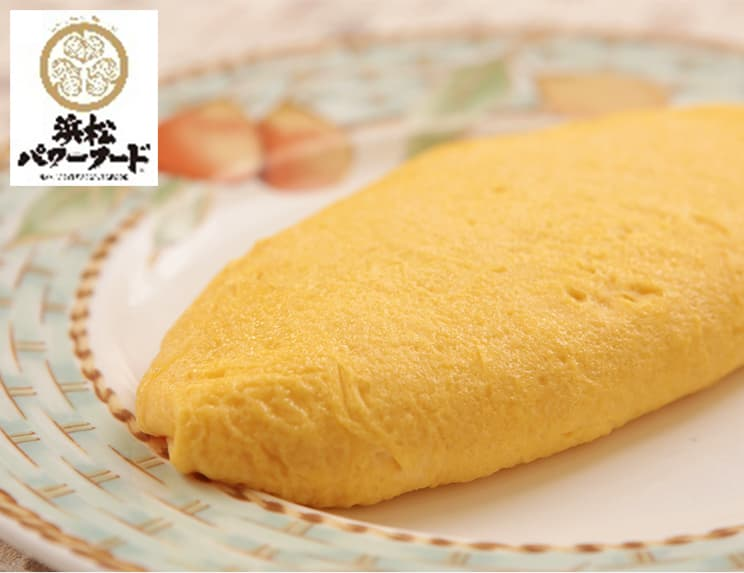
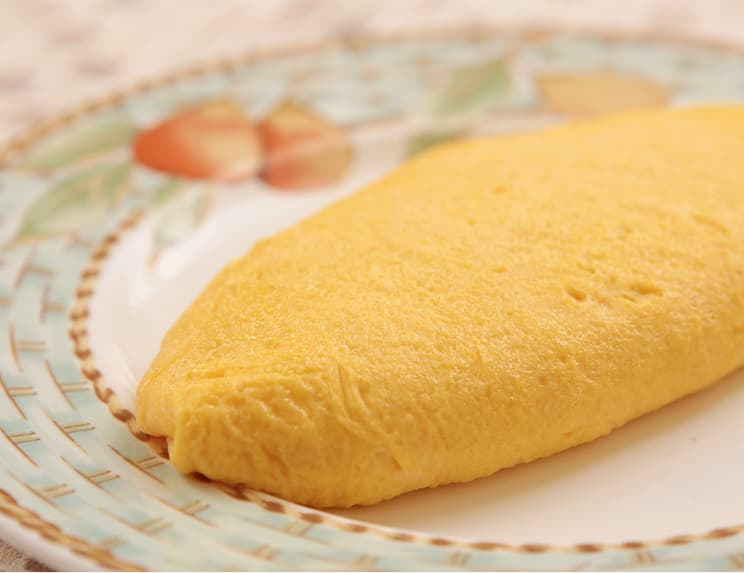
update images and text content

Changed region(s): [[0.0, 0.0, 0.2164, 0.3264]]

diff --git a/css/breakfast.css b/css/breakfast.css
@@ -325,8 +325,19 @@
   margin-left: 2%;
 }
 
+.breakfast-content .sect-3 .menu-wrapper .menu-item .menu-img {
+  position: relative;
+}
+
 .breakfast-content .sect-3 .menu-wrapper .menu-item .menu-img img {
   width: 100%;
+}
+
+.breakfast-content .sect-3 .menu-wrapper .menu-item .menu-img .power-logo {
+  width: 74px;
+  position: absolute;
+  top: 5px;
+  left: 5px;
 }
 
 .breakfast-content .sect-3 .menu-wrapper .menu-item .menu-content {
@@ -414,10 +425,18 @@
 
 .breakfast-content .sect-4 .cook .cook-item .img-wrap {
   margin: 0 0 15px;
+  position: relative;
 }
 
 .breakfast-content .sect-4 .cook .cook-item .img-wrap img {
   width: 100%;
+}
+
+.breakfast-content .sect-4 .cook .cook-item .img-wrap .power-logo {
+  width: 74px;
+  position: absolute;
+  top: 5px;
+  left: 5px;
 }
 
 .breakfast-content .sect-4 .cook .cook-item .date {

diff --git a/css/breakfast-sp.css b/css/breakfast-sp.css
@@ -308,8 +308,19 @@
   display: block;
 }
 
+.breakfast-content .sect-3 .menu-wrapper .menu-item .menu-img {
+  position: relative;
+}
+
 .breakfast-content .sect-3 .menu-wrapper .menu-item .menu-img img {
   width: 100%;
+}
+
+.breakfast-content .sect-3 .menu-wrapper .menu-item .menu-img .power-logo {
+  width: 37px;
+  position: absolute;
+  top: 5px;
+  left: 5px;
 }
 
 .breakfast-content .sect-3 .menu-wrapper .menu-item .menu-content {
@@ -455,10 +466,18 @@
 
 .breakfast-content .sect-4 .cook .cook-item .img-wrap {
   margin: 0 0 11px;
+  position: relative;
 }
 
 .breakfast-content .sect-4 .cook .cook-item .img-wrap img {
   width: 100%;
+}
+
+.breakfast-content .sect-4 .cook .cook-item .img-wrap .power-logo {
+  width: 37px;
+  position: absolute;
+  top: 5px;
+  left: 5px;
 }
 
 .breakfast-content .sect-4 .cook .cook-item .date {

diff --git a/scss/breakfast.scss b/scss/breakfast.scss
@@ -260,8 +260,15 @@
 					margin-left: 2%;
 				}
 				.menu-img{
+					position: relative;
 					img{
 						width: 100%;
+					}
+					.power-logo{
+						width: 74px;
+						position: absolute;
+						top: 5px;
+						left: 5px;
 					}
 				}
 				.menu-content{
@@ -331,8 +338,15 @@
 				text-align: center;
 				.img-wrap{
 					margin: 0 0 15px;
+					position: relative;
 					img{
 						width: 100%;
+					}
+					.power-logo{
+						width: 74px;
+						position: absolute;
+						top: 5px;
+						left: 5px;
 					}
 				}
 				.date{

diff --git a/scss/breakfast-sp.scss b/scss/breakfast-sp.scss
@@ -250,8 +250,15 @@
 					display: block;
 				}
 				.menu-img{
+					position: relative;
 					img{
 						width: 100%;
+					}
+					.power-logo{
+						width: 37px;
+						position: absolute;
+						top: 5px;
+						left: 5px;
 					}
 				}
 				.menu-content{
@@ -368,8 +375,15 @@
 				text-align: center;
 				.img-wrap{
 					margin: 0 0 11px;
+					position: relative;
 					img{
 						width: 100%;
+					}
+					.power-logo{
+						width: 37px;
+						position: absolute;
+						top: 5px;
+						left: 5px;
 					}
 				}
 				.date{

diff --git a/breakfast/index.php b/breakfast/index.php
@@ -96,7 +96,7 @@
 									<div class="img-wrap">
 										<img src="/images/breakfast/chef-img-1.jpg" alt="鈴木 康生">
 									</div>
-									<p class="sawa">和食の神髄は出汁（だし）。職人の仕事は、朝一番に出汁を取ることから始まります。その出汁の旨味を存分にお楽しみいただける味噌汁をはじめ、料理人手作りのお惣菜をご用意しております。</p>
+									<p class="sawa">和食の神髄は出汁（だし）。鰹節と昆布から丁寧に出汁を取ることにこだわっています。その出汁の旨味を存分に味わっていただける味噌汁をはじめ、料理人手作りのお惣菜をお楽しみください。</p>
 								</div>
 								<div class="chef-item">
 									<h3 class="sawa">
@@ -140,12 +140,13 @@
                                     <div class="menu-content"> 
                                         <span class="sawa">-和食職人の逸品- </span>
                                         <h3 class="sawa">出汁（だし）香る味噌汁</h3>
-                                        <p>和食の料理人が丁寧に鰹節から出汁（だし）をとり、味わい深く仕上げたお味噌 汁です。</p>
+                                        <p>和食の料理人が丁寧に鰹節から出汁（だし）をとり、味わい深く仕上げたお味噌汁です。</p>
                                     </div>
 								</div>
 								<div class="menu-item">
                                     <div class="menu-img">
                                         <img src="/images/breakfast/menu04.jpg" alt="浜松パワーフードソーセージ">
+                                        <img src="/images/breakfast/power-logo.jpg" class="power-logo" alt="">
                                     </div>
                                     <div class="menu-content">
                                         <span class="sawa">-地元浜松産食材-</span>
@@ -176,11 +177,12 @@
 								<div class="menu-item">
                                     <div class="menu-img">
                                         <img src="/images/breakfast/menu07.jpg" alt="うなぎいもプリン ">
+                                        <img src="/images/breakfast/power-logo.jpg" class="power-logo" alt="">
                                     </div>
                                     <div class="menu-content">
                                         <span class="sawa">-パティシエ特製デザート-</span>
                                         <h3 class="sawa">うなぎいもプリン</h3>
-                                        <p>鰻を飼料に育てたサツマイモ「うなぎいも」を使ったプリンです。滑らかな味わいをお楽しみください。</p>
+                                        <p>鰻を肥料に育てたサツマイモ「うなぎいも」を使ったプリンです。滑らかな味わいをお楽しみください。</p>
                                     </div>
 								</div>
 								<div class="menu-item">
@@ -208,6 +210,7 @@
                                 <div class="cook-item">
                                     <div class="img-wrap">
                                         <img src="/images/breakfast/cook02.jpg" alt="三ケ日みかん風味の長坂養蜂場のはちみつゼリー ">
+                                        <img src="/images/breakfast/power-logo.jpg" class="power-logo" alt="">
                                     </div>
                                     <p class="date sawa">〈2022年3月〉</p>
                                     <span class="sawa">-パティシエ　柴田-</span>
@@ -217,6 +220,7 @@
                                 <div class="cook-item">
                                     <div class="img-wrap">
                                         <img src="/images/breakfast/cook03.jpg" alt="三方原大根と遠州灘産しらすの柚子風味和え">
+                                        <img src="/images/breakfast/power-logo.jpg" class="power-logo" alt="">
                                     </div>
                                     <p class="date sawa">〈2022年3月〉</p>
                                     <span class="sawa">-和食料理人　三浦-</span>
@@ -290,7 +294,7 @@
                                                     <p class="sawa">・漬物</p>
                                                 </li>
                                                 <li>
-                                                    <p class="sawa">・<span>舞阪産しらすおろし</span></p>
+                                                    <p class="sawa">・<span>遠州灘産しらすおろし</span></p>
                                                 </li>
                                                 <li>
                                                     <p class="sawa">・納豆</p>
@@ -314,13 +318,13 @@
                                                     <p class="sawa">・<span>うなぎいも</span>プリン</p>
                                                 </li>
                                                 <li>
-                                                    <p class="sawa">・<span>いなさ牛乳</span>パンナコッタ</p>
+                                                    <p class="sawa">・いなさ牛乳パンナコッタ</p>
                                                 </li>
                                             </ul>
                                         </div>
                                     </div>
                                     <div class="food-item">
-                                        <h3>限定フードメニュー</h3>
+                                        <h3>日替わりフードメニュー</h3>
                                         <ul>
                                             <li>
                                                 <p>&#60;奇数日限定&#62;</p>
